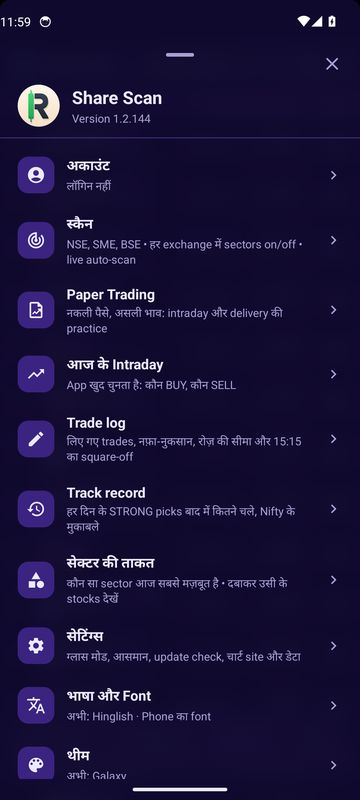
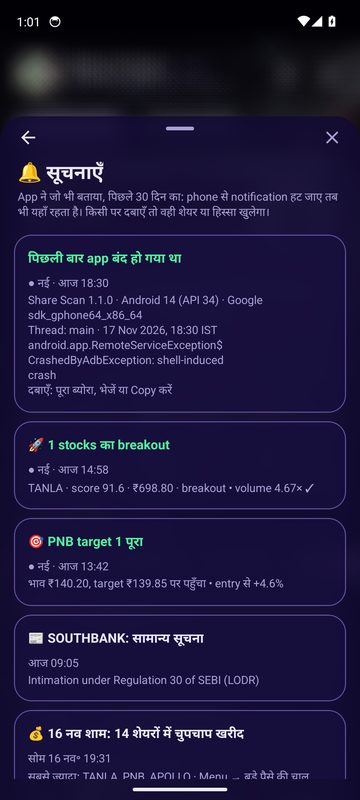
Guide pictures of Menu → सूचनाएँ and the Menu with it, from the emulator
Claude-Session: https://claude.ai/code/session_01QbLgyeA7dNDAR22EZYeTV5

diff --git a/app/src/main/assets/guide/index.html b/app/src/main/assets/guide/index.html
@@ -734,7 +734,7 @@ footer { border-top: 1px solid var(--line); padding-block: 28px 40px; color: var
           </ul>
         </div>
         <div class="shots">
-          <figure><img src="img/menu.jpg" alt="Menu: अकाउंट, स्कैन, Paper Trading, आज के Intraday, Trade log, Track record, सेक्टर की ताकत, सेटिंग्स, भाषा और Font, थीम" loading="lazy" width="360" height="800"><figcaption>Menu</figcaption></figure>
+          <figure><img src="img/menu.jpg" alt="Menu: शुरुआती गाइड, अकाउंट, सूचनाएँ (3 नई सूचनाएँ), स्कैन, Paper Trading, आज के Intraday, बड़े पैसे की चाल, Trade log, Track record" loading="lazy" width="360" height="800"><figcaption>Menu</figcaption></figure>
           <figure><img src="img/settings.jpg" alt="सेटिंग्स: update check, screen ऑन, आसमान का animation, ग्लास मोड, NSE, SME, BSE" loading="lazy" width="360" height="800"><figcaption>सेटिंग्स</figcaption></figure>
         </div>
       </div>
